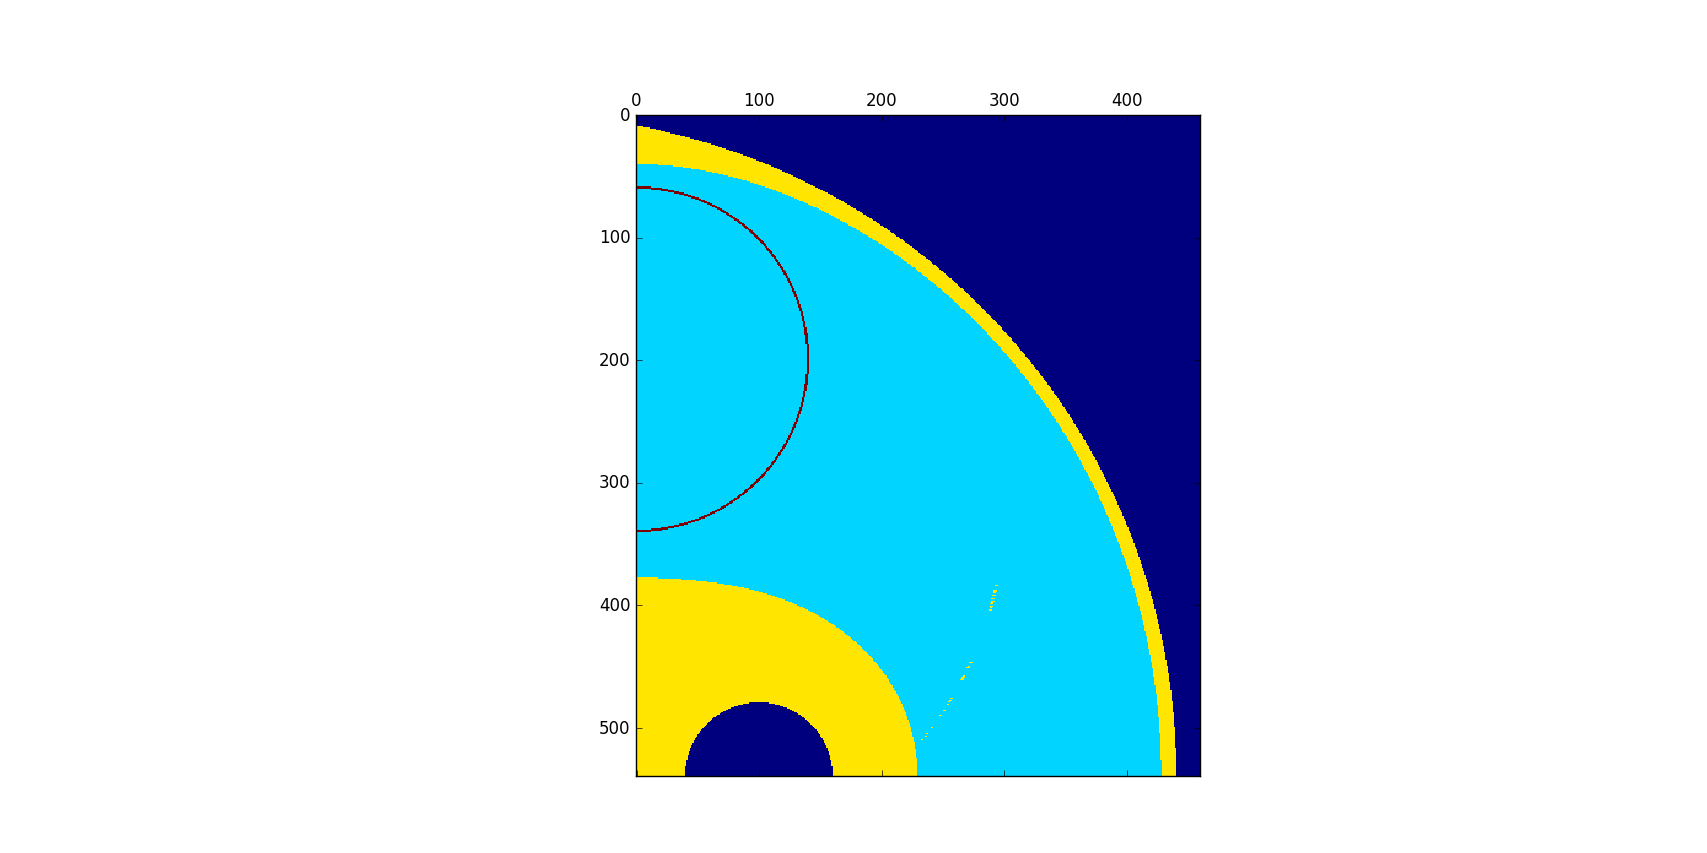
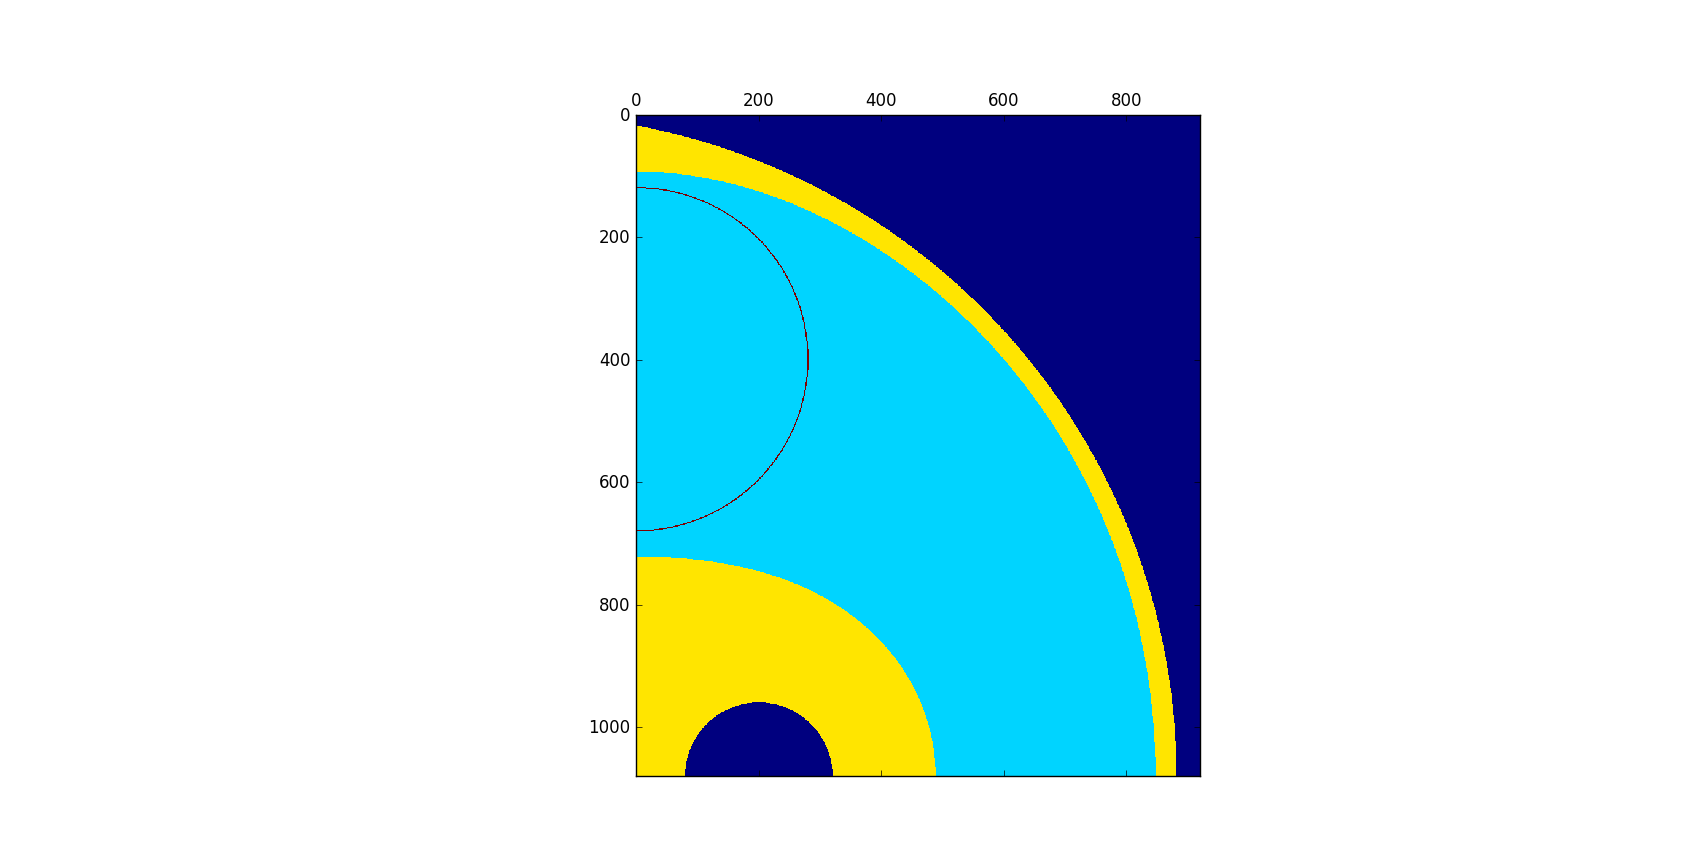
Controlador obtido

diff --git a/Simulação e Modelagem/C++/5R_SMC_proj/RR_sim.cpp b/Simulação e Modelagem/C++/5R_SMC_proj/RR_sim.cpp
@@ -139,8 +139,9 @@ int main(){
             y = i*dl+0.5*dl;
             gnr2.Doit(q0_, {x, y});
             if(gnr2.convergiu){
+            	q0_ = gnr2.x_;
                 A2_ = join_horiz(Robot.Ah_, join_horiz(Robot.Ao_.col(1), Robot.Ao_.col(3)) );
-                if(abs(det(Robot.Ao_)) < 1.6*1e-4 || abs(det(A2_)) < 1e-3 ) M(i,j) = 2;
+                if(abs(det(Robot.Ao_)) < 1.5*1e-4 || abs(det(A2_)) < 1e-10 ) M(i,j) = 2;
                 else{
                     M(i,j) = 1;
                     Robot.Doit(Robot.q0_, join_vert(v1_, -solve(Robot.Ao_, Robot.Ah_*v1_)) );
@@ -211,7 +212,7 @@ int main(){
     k_.print("k_ =");
 
     mat iI_Delta_ = inv(eye(2,2) - Delta_);
-    vec eta_  = iI_Delta_*delta_; 
+    vec eta_  = iI_Delta_*(delta_ + ones(2,1) ); 
     vec eta1_  = iI_Delta_*delta1_; 
     vec eta2_  = iI_Delta_*delta2_; 
     vec eta12_ = iI_Delta_*delta12_; 

diff --git a/Simulação e Modelagem/C++/5R_workspace/RR_sim.cpp b/Simulação e Modelagem/C++/5R_workspace/RR_sim.cpp
@@ -41,7 +41,7 @@ int main(){
     //Plotar área de trabalho
     double lx = 0.23;
     double ly = 0.27;
-    double dl = 0.0005;
+    double dl = 0.00025;
     uint nx = (lx/dl);
     uint ny = (ly/dl);
     Mat<int> M; M.zeros(ny,nx);
@@ -72,7 +72,7 @@ int main(){
             if(gnr2.convergiu){
                 q0_ = gnr2.x_;
                 A2_ = join_horiz(Robot.Ah_, join_horiz(Robot.Ao_.col(1), Robot.Ao_.col(3)) );
-                if(abs(det(Robot.Ao_)) < 1.3*1e-4 || abs(det(A2_)) < 1e-4 ) M(i,j) = 2;
+                if(abs(det(Robot.Ao_)) < 1.5*1e-4 || abs(det(A2_)) < 1e-10 ) M(i,j) = 2;
                 else M(i,j) = 1;
             }
             gnr2.convergiu = false;
